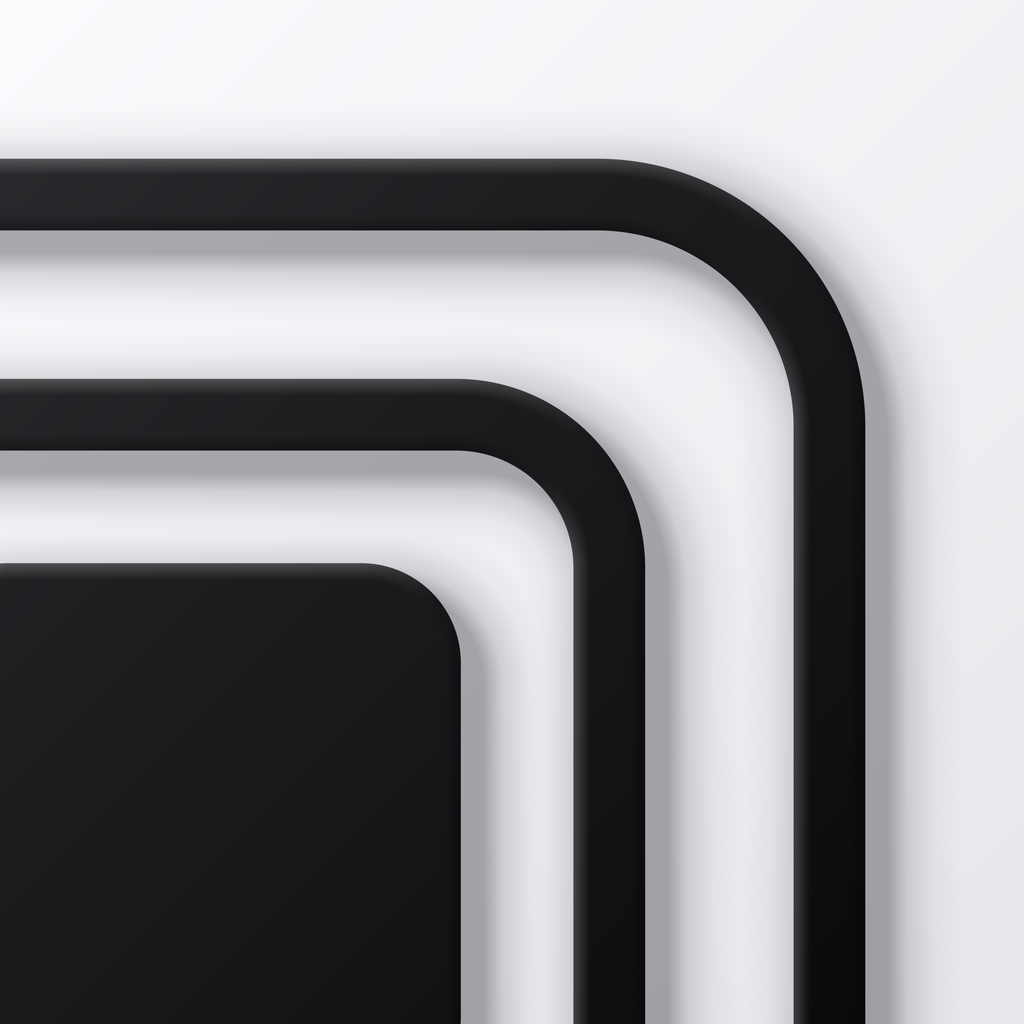
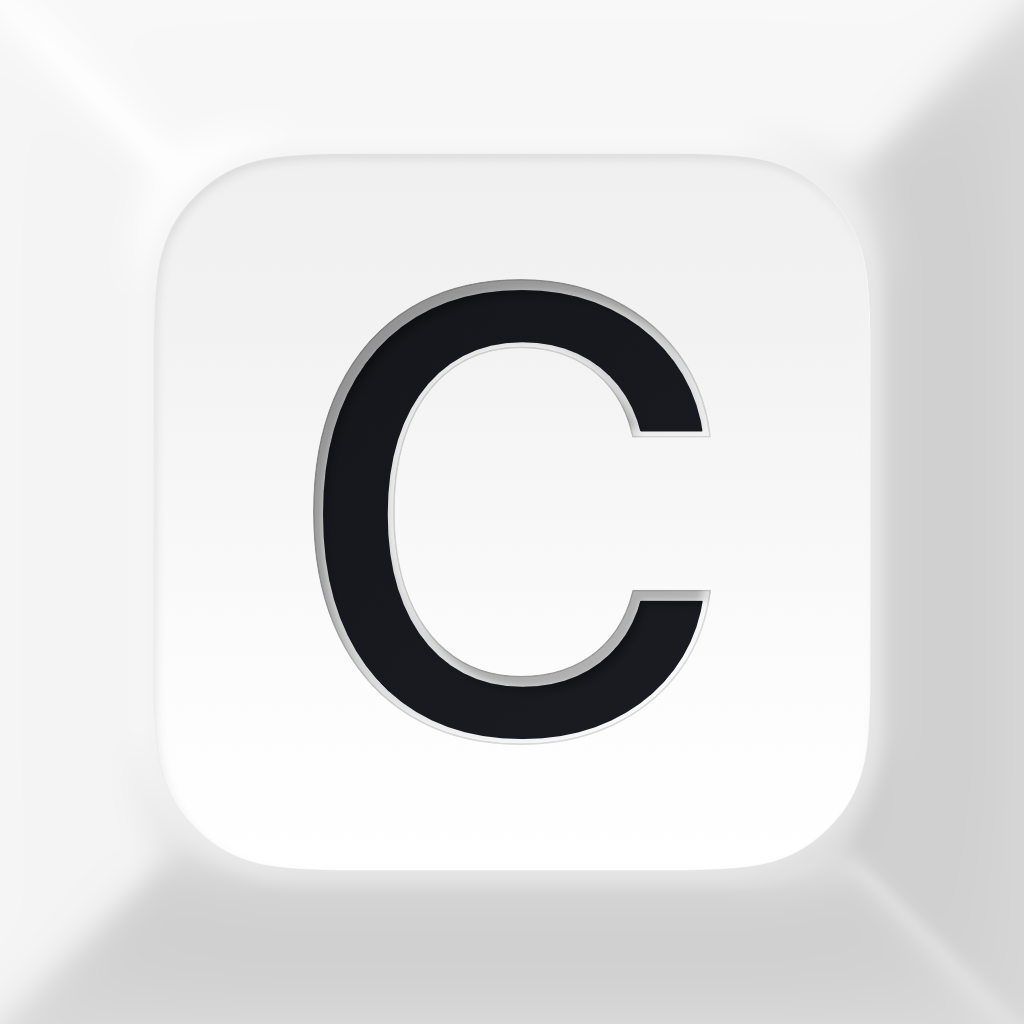
update

diff --git a/tools/build-manifest.py b/tools/build-manifest.py
@@ -5,5 +5,5 @@ repo = os.environ.get("GITHUB_REPOSITORY", "anti-ltd/clink-panels")
 panels = []
 for path in sorted((root / "Panels").glob("*.clinkpanel")):
     data = path.read_bytes(); panel = json.loads(data)
-    panels.append({"id": path.stem, "name": panel["name"], "version": "latest", "asset": {"path": path.name, "url": f"https://github.com/{repo}/releases/download/latest/{path.name}", "sha256": hashlib.sha256(data).hexdigest(), "byteCount": len(data)}})
+    panels.append({"id": path.stem, "name": panel["name"], "icon": panel.get("icon", ""), "summary": panel.get("summary", ""), "version": "latest", "asset": {"path": path.name, "url": f"https://github.com/{repo}/releases/download/latest/{path.name}", "sha256": hashlib.sha256(data).hexdigest(), "byteCount": len(data)}})
 (root / "manifest.json").write_text(json.dumps({"version": "latest", "panels": panels}, indent=2) + "\n")
